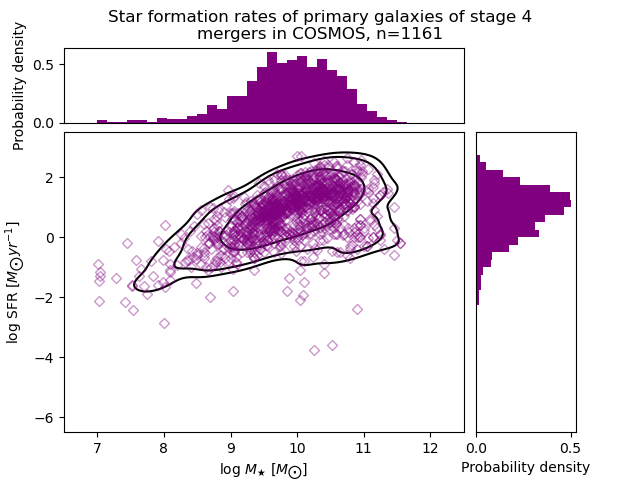
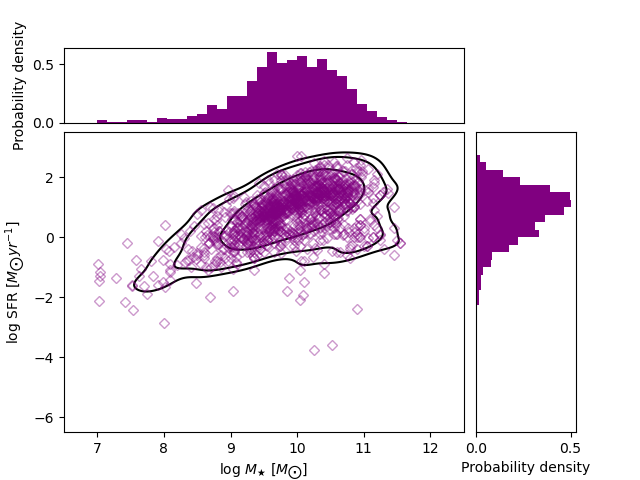
Changed absolute mag axis labels, removed titles

Changed region(s): [[0.1562, 0.0, 0.8438, 0.0938]]

diff --git a/plots/plotting_code/main_plots/abs_mag_z.py b/plots/plotting_code/main_plots/abs_mag_z.py
@@ -70,7 +70,7 @@ def generate_subplots(data):
     plt.errorbar(z_pdf, abs_mag, xerr=z_err, fmt='o', c='red', ecolor='black', label='plot1')
     plt.title('Absolute i-band magnitude against pdf redshift, with errors')
     plt.xlabel('Redshift')
-    plt.ylabel('Abs i-band magnitude')
+    plt.ylabel('Absolute i-band\nmagnitude, m')
     ax = plt.gca()
     ax.invert_yaxis()
 
@@ -79,7 +79,7 @@ def generate_subplots(data):
     plt.scatter(z_pdf, abs_mag, c='red', label='plot2')
     plt.title('Absolute i-band magnitude against pdf redshift')
     plt.xlabel('Redshift')
-    plt.ylabel('Abs i-band magnitude')
+    plt.ylabel('Absolute i-band\nmagnitude, m')
     ax = plt.gca()
     ax.invert_yaxis()
 
@@ -88,7 +88,7 @@ def generate_subplots(data):
     plt.scatter(z_chi2, abs_mag, c='red', label='plot3')
     plt.title('Absolute i-band magnitude against chi^2 redshift')
     plt.xlabel('Redshift')
-    plt.ylabel('Abs i-band magnitude')
+    plt.ylabel('Absolute i-band\nmagnitude, m')
     ax = plt.gca()
     ax.invert_yaxis()
 
@@ -117,7 +117,7 @@ def generate_plot(data):
     plt.scatter(z_pdf, k_mag, alpha=alpha, c='green',s=s, label='k-mag')
     plt.title(f'Absolute magnitudes of primary galaxy in selected mergers \nin COSMOS against redshift')
     plt.xlabel('Redshift, z')
-    plt.ylabel('Absolute magnitude')
+    plt.ylabel('Absolute magnitude, m')
     plt.text(3, -12, f'n={n}', fontsize=25)
     plt.legend(markerscale=10)
     ax = plt.gca()
@@ -141,11 +141,11 @@ def generate_i_band(data):
     z_upp_err = [i[2] - i[0] for i in data]
     z_err = [z_low_err, z_upp_err]
 
-    plt.errorbar(z_pdf, i_mag, xerr=z_err, alpha=0.4, c='red',fmt='.', markersize=3, ecolor='black', elinewidth=1,label='i-mag')
+    plt.errorbar(z_pdf, i_mag, alpha=0.4, c='red',fmt='.', markersize=3, ecolor='black', elinewidth=1,label='i-mag')
     plt.plot([1.5] * (-10 - -27), [-10 - i for i in range(0, 17)], linestyle='--', c='black')
     plt.title(f'Absolute magnitudes of primary galaxy in selected mergers \nin COSMOS against redshift')
     plt.xlabel('Redshift, z')
-    plt.ylabel('Absolute magnitude')
+    plt.ylabel('Absolute magnitude, m')
     plt.ylim(-26, -10)
     plt.text(3, -12, f'n={n}', fontsize=25)
     ax = plt.gca()
@@ -157,5 +157,5 @@ def generate_i_band(data):
 mydata = data_gather()
 # print(len(mydata))
 # generate_subplots(mydata)
-generate_plot(mydata)
-# generate_i_band(mydata)
+# generate_plot(mydata)
+generate_i_band(mydata)

diff --git a/plots/plotting_code/main_plots/sfr_mass.py b/plots/plotting_code/main_plots/sfr_mass.py
@@ -107,7 +107,7 @@ def generate_separate(data):
         fig = plt.figure()
 
         # Figure settings
-        fig.suptitle(f'Star formation rates of primary galaxies of stage {n+1}\nmergers in COSMOS, n={len(j[0])}')
+        # fig.suptitle(f'Star formation rates of primary galaxies of stage {n+1}\nmergers in COSMOS, n={len(j[0])}')
         gs = fig.add_gridspec(2, 2, width_ratios=(4, 1), height_ratios=(1, 4),
                               left=0.1, right=0.9, bottom=0.1, top=0.9,
                               wspace=0.05, hspace=0.05)
